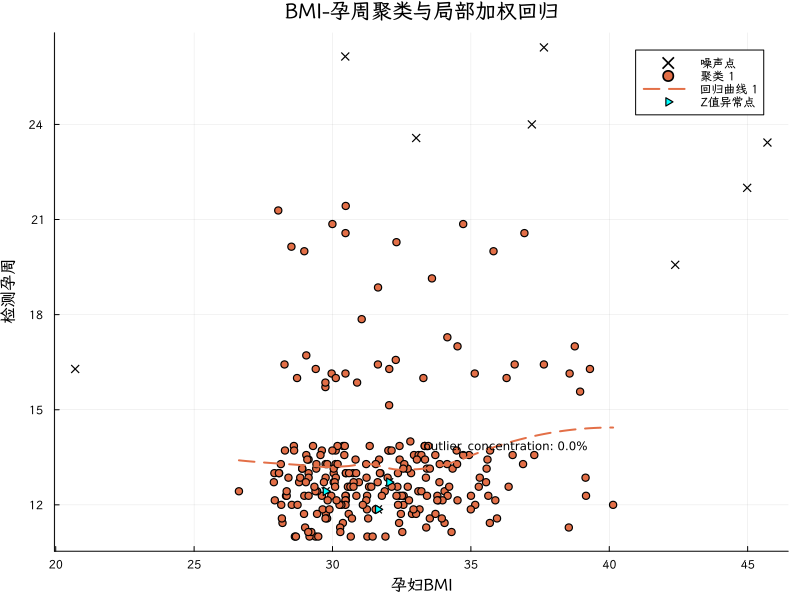
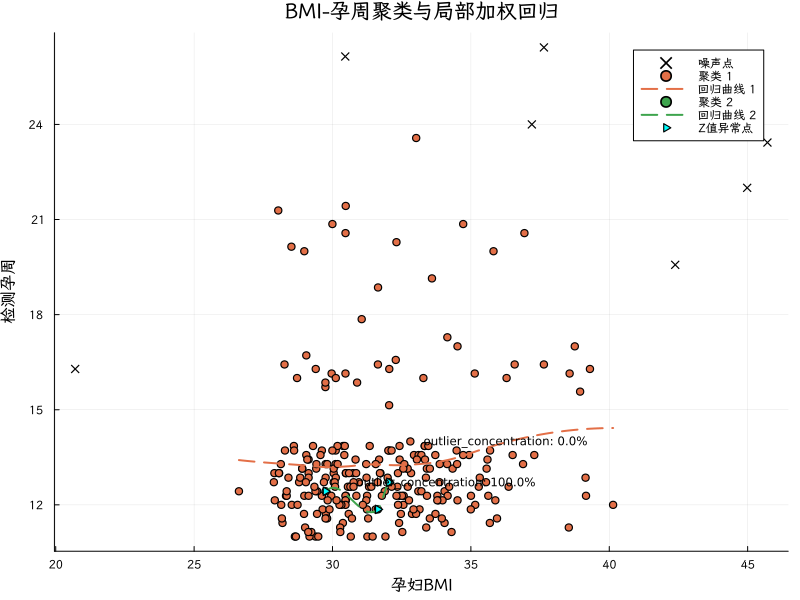
做完了第二题

diff --git a/paper/第二题说明.md b/paper/第二题说明.md
@@ -1,5 +1,80 @@
 ## 题目分析
+题目要求计算最合适的各组BMI区间，使得NIPT的时机最合适，且风险最小、测量误差最小。因而我们需要在每位孕妇所有NIPT样本中首次y染色体浓度>=4%的相关数据，以判别MBI同孕周的关联，并探讨唯一比对的读段数、被过滤掉读段数的比例、重复读段的比例、在参考基因组上比对的比例、Y染色体的Z值对y染色体浓度的影响。  
+
 ## 数据预处理
+从...中抽取各孕妇样本中首次y染色体浓度>=4%的相关数据共267行。  
+
 ## 建模过程
+
 ### 1. 聚类分析
+采用DBSCAN+局部加权回归的方案。
+
+1.1 DBSCAN
+鉴于传统K-means算法对噪声敏感且无法自动识别簇数量的缺陷，本研究采用基于密度的空间聚类算法（DBSCAN）对数据进行聚类分析。该算法基于“簇是数据空间中密集区域”的假设，能够识别任意形状的簇并有效分离噪声点。
+
+#### 数学模型定义
+- ε-邻域： 对于给定对象 $p$，其 $ε$-邻域定义为以 $p$ 为中心、以 $ε$ 为半径的圆形区域内的对象集合，记为 $N_ε(p) = \{q ; | ; \text{dist}(p, q) ≤ ε\}$。
+- 核心对象： 如果对象 $p$ 的 $ε$-邻域内至少包含 $MinPts$ 个对象（包括$p$本身），即 $|N_ε(p)| ≥ MinPts$，则称 $p$ 为核心对象。
+- 直接密度可达： 如果对象 $p$ 在 $q$ 的 $ε$-邻域内，且 $q$ 是一个核心对象，则称对象 $p$ 是从 $q$ 直接密度可达的。
+- 密度可达： 如果存在一个对象链 $p_1, p_2, ..., p_n$，其中 $p_1 = q$, $p_n = p$，且对于 $p_{i+1}$ 是从 $p_i$ 直接密度可达的，则称 $p$ 是从 $q$ 密度可达的。
+- 密度相连： 如果存在一个对象 $o$，使得对象 $p$ 和 $q$ 都是从 $o$ 密度可达的，则称 $p$ 和 $q$ 是密度相连的。  
+- 
+#### 算法聚类过程
+- 算法遍历所有未访问的点。
+- 如果一个点 $p$ 是核心对象，则以其为基础创建一个新的簇，并迭代地收集所有从该点密度可达的对象，形成一个簇。
+- 如果一个点不是核心对象，且不属于任何簇，则将其标记为噪声（或边界点）。
+参数选择： 参数 $ε$ 和 $MinPts$ 通过绘制 **k-distance图（已绘制）** 并结合问题背景进行确定.在 DBSCAN 聚类算法中，两个核心参数是邻域半径 ϵ 和最小点数 k = MinPts。我们首先根据经验法则，将 k 设定为 3，该值能够有效确保聚类只在密度高的区域形成。然后，我们通过绘制 k-距离图来确定最佳的 ϵ 值。在该图中，k 被设定为 min_pts，图中的**拐点（elbow point）**所对应的距离即为最优 ϵ。  
+
+1.2 局部加权回归（**已绘制**）
+由预处理数据散点图可知，散点分别聚集在多个区间，因而采用该方法最合适。同时考虑到有|Z| >= 3的异常点要处理，我们在对应的点增加了权重使模型趋向于绕开异常点以降低其于数据中的浓度，可使求解结果风险尽量小。  
+
+#### 局部加权回归 (LOESS) 在二维数据中的特点：
+- 优点：
+在每个预测点用邻域数据拟合局部低阶多项式，非常适合处理“局部有聚集”的情况。  
+不需要假设全局函数形式，能够拟合复杂、非均匀的曲面。  
+灵活捕捉局部变化（比如数据云团、簇状分布）。  
+- 缺点：
+计算量大：二维局部拟合比一维更耗时。  
+边界区域或数据稀疏区域，拟合结果不稳定。  
+参数选择（邻域半径、权重函数）对结果敏感。  
+不会产生全局解析模型，解释性差。  
+
+#### 核心思想和描述
+Loess 的核心思想是**“局部拟合”**。它在每个预测点上，都用一个独立的加权线性回归或加权二次回归来拟合该点附近的局部数据。
+你可以这样描述它的基本原理：
+> “局部加权回归（Loess）是一种强大的非参数回归方法，它不依赖于任何预设的函数形式来描述变量之间的关系。其核心思想是，在数据空间中，每个预测点 $x_i$ 的拟合值 $\hat{y}_i$ 仅由其附近的局部数据点决定。
+> **该方法通过为每个局部数据点赋予不同的权重来完成拟合：** 距离预测点 $x_i$ 越近的数据点，其权重越高；距离越远，权重越低。通过这种方式，Loess 能够灵活地捕捉数据的非线性趋势和局部变化，生成一条平滑的拟合曲线。”  
+
+#### 数学方程
+虽然没有单一的全局方程，但 Loess 的局部拟合过程可以用数学形式来描述。对于每一个预测点 $x$，Loess 的拟合值 $\hat{y}$ 是通过解决以下加权最小二乘问题得到的：
+$$\hat{y}(x) = \arg\min_{\beta_0, \beta_1} \sum_{i=1}^{n} w_i(x) \cdot (y_i - (\beta_0 + \beta_1 x_i))^2$$
+其中：
+* $n$ 是数据点的总数。
+* $(x_i, y_i)$ 是原始数据点。
+* $(\beta_0, \beta_1)$ 是**局部**线性回归的系数。
+* $w_i(x)$ 是**权重函数**，它取决于数据点 $x_i$ 与预测点 $x$ 之间的距离。常用的权重函数是**三次权重函数（Tricube Weight Function）**，其定义为：
+$$w(d) = \begin{cases} (1 - d^3)^3 & \text{if } d < 1 \\ 0 & \text{if } d \ge 1 \end{cases}$$
+这里的 $d$ 是数据点 $x_i$ 到预测点 $x$ 的标准化距离。  
+
 ### 2. 误差分析
+2.1 熵权法+topsis
+将唯一比对的读段数、被过滤掉读段数的比例、重复读段的比例、在参考基因组上比对的比例四个指标进行标准化求出综合评分（未实现打表以进行各个指标的横向比较）
+2.2 建立回归模型
+为确定应当使用的回归方法，首先要明确各项指标的分布情况（**如图**）：  
+从图中可以看出，除了Y染色体的Z值可能近似服从正态分布外，其他几个关键指标（如唯一比对的读段数、被过滤掉读段数的比例等）都呈现出明显的偏态分布。
+- 线性回归的局限性：标准的多元线性回归模型假设残差（模型的误差）是正态分布的。当自变量本身严重偏斜时，这会使模型的假设难以满足，可能导致结果不准确，甚至会影响变量系数的解释。
+- 非线性关系：这些偏态分布也暗示着，这些指标与 Y 染色体浓度之间的关系很可能不是简单的线性关系。
+
+因此，我们不能直接使用标准的多元线性回归。可以采用*数据变换+多元线性回归*的方案（**已绘制**），发现效果不理想：  
+- 左边的残差图显示了一个非常明显的漏斗形模式：随着预测值增大，残差的波动范围也越来越大。这被称为异方差性（Heteroscedasticity）。这违反了线性回归模型的一个核心假设，即残差的方差是恒定的。
+- 右边的预测值与实际值散点图也验证了这一点。数据点并没有紧密地分布在 y=x 对角线附近，而是呈现出一种扇形发散的趋势。当预测值很低时，模型的表现还不错，但当预测值很高时，预测值与实际值之间的偏差变得非常大。
+*论文中如何解释*
+- 承认问题：明确指出多元线性回归模型的诊断图显示了异方差性。这意味着模型的预测误差会随着 Y染色体浓度 的预测值增大而增大。
+- 解释原因：分析为什么会出现这种现象。最可能的原因是：
+- 非线性关系：Y染色体浓度 与其他变量之间的关系不是简单的线性关系。
+- 数据本身的特性：Y染色体浓度 本身是一个百分比或比例，它的波动范围可能与均值相关，而不是恒定的。
+此外我也尝试了广义线性模型（**已绘制**）。  
+*论文中描述改进*
+- “为探究各因素对Y染色体浓度的影响，我们首先构建了基于检测孕周、孕妇BMI和TOPSIS评分的多元线性回归模型。然而，对模型残差图（图A）进行诊断分析后发现，模型的残差呈现出明显的漏斗形发散模式。这表明模型存在异方差性，即随着预测值的增大，预测误差也随之增大，违背了线性回归模型关于残差方差恒定的关键假设。因此，该模型的系数估计和统计显著性（p值）均不可信，无法为我们的结论提供稳健支持。”
+- “为解决多元线性回归模型的异方差性问题，我们转向使用广义线性模型（GLM）。考虑到Y染色体浓度作为比例数据的特性，我们选择了Gamma分布作为误差分布，并使用对数（Log）链接函数进行模型拟合。这种选择能够更好地捕捉Y染色体浓度数据中存在的非线性关系和方差随均值变化的特点。”
+- “从GLM的残差诊断图（图B）可以看出，模型的残差点更加均匀、随机地分布在零线上下，原有的漏斗形模式已被有效消除。这证明GLM成功地解决了模型的异方差性问题，使得模型的系数估计和统计推断更加稳健和可靠。因此，后续分析将基于该GLM模型的结果进行。”
